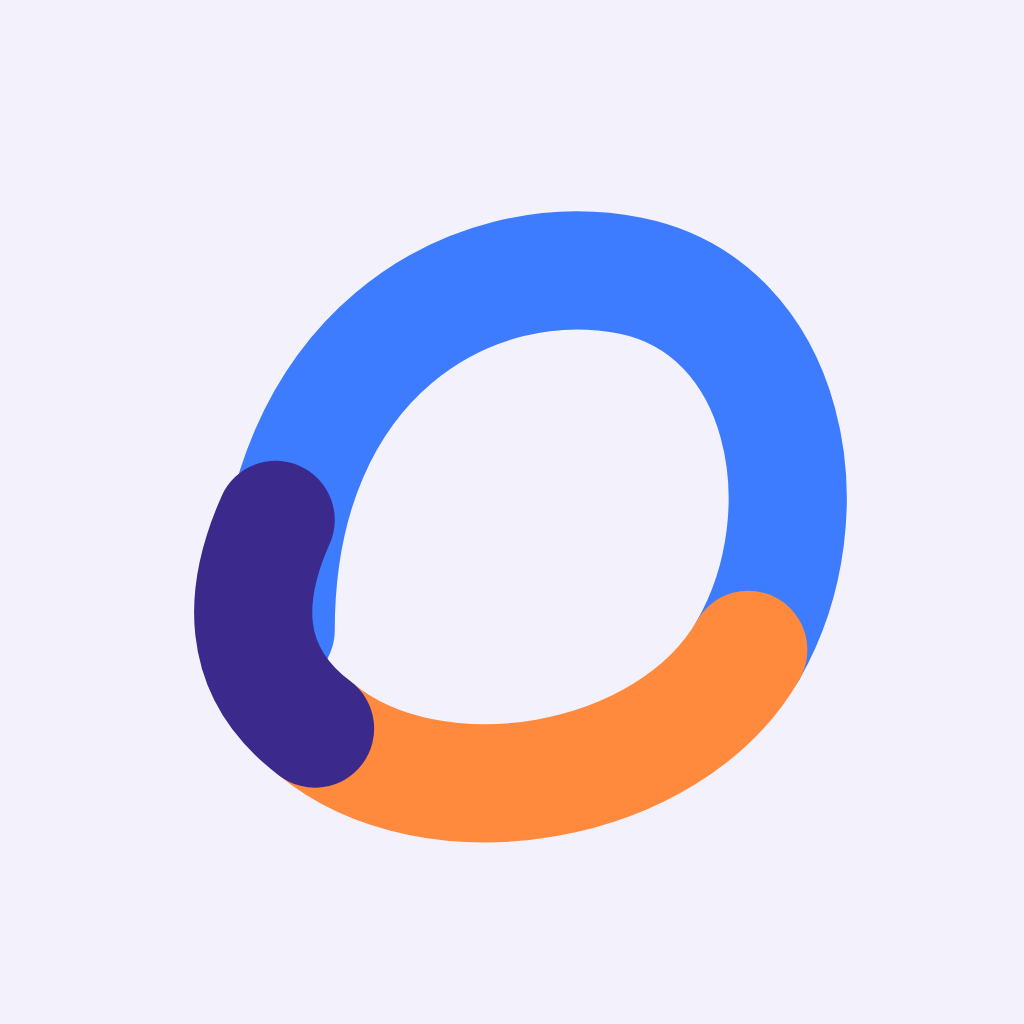
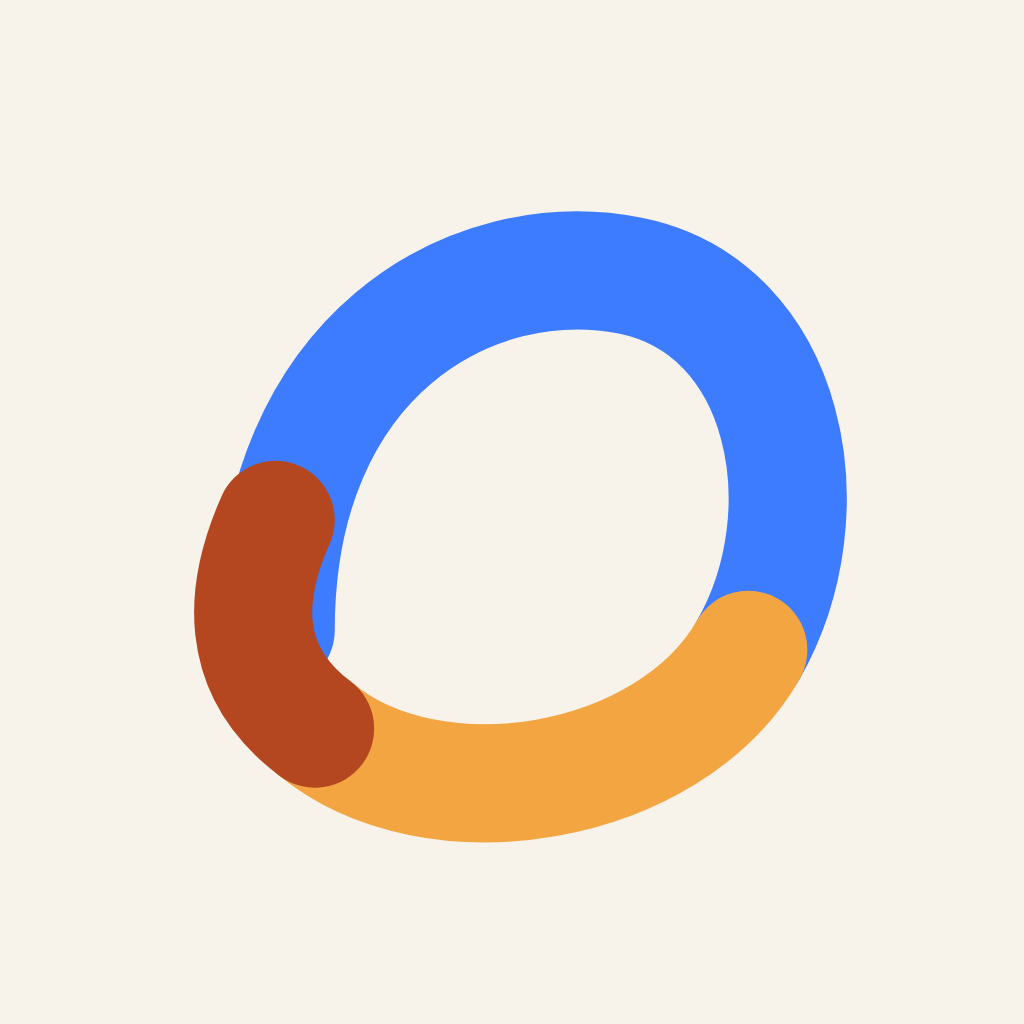
Kolory „Wstążek”: piasek + terakota zamiast fioletu (D74), także ikona
Claude-Session: https://claude.ai/code/session_01AfkbASz5VByGQrmgCYMLhg

Changed region(s): [[0.1875, 0.4375, 0.8125, 0.8438]]

diff --git a/src/config/theme.ts b/src/config/theme.ts
@@ -1,5 +1,5 @@
 /**
- * Motyw „Wstążki” (D72, decyzja właściciela z 7.10.2026; następca „Linii” z D50): każda grupa to kolorowa wstążka, a widok
+ * Motyw „Wstążki” w kolorach „piasek + terakota” (D72, D74 — decyzje właściciela z 7.10.2026; następca „Linii” z D50): każda grupa to kolorowa wstążka, a widok
  * „Dotyczy mnie” to stacja przesiadkowa. Jedyne źródło kolorów, krojów i rozmiarów ekranów.
  *
  * Progi czytelności (test src/config/__tests__/theme.test.ts liczy kontrast każdej pary poniżej):
@@ -28,7 +28,7 @@ export type Palette = {
   border: string;
   /** Obwódka pól do odhaczania: element sterujący, więc ≥ 3:1. */
   control: string;
-  /** Wyróżnienie aktywnej zakładki i przycisków-pigułek (motyw „Wstążki”, D72). */
+  /** Wyróżnienie aktywnej zakładki i przycisków-pigułek (motyw „Wstążki”, D72; kolor terakota, D74). */
   accentBg: string;
   accentInk: string;
   ok: string;
@@ -43,42 +43,42 @@ export type Palette = {
 
 export const palettes: Record<Scheme, Palette> = {
   light: {
-    ground: '#F3F1FB',
+    ground: '#F7F2EA',
     surface: '#FFFFFF',
-    ink: '#1D1638',
-    inkMuted: '#4E4673',
-    inkTab: '#6B6391',
-    border: '#E3DEF5',
-    control: '#7A6FA8',
-    accentBg: '#ECE8FF',
-    accentInk: '#3B2A8C',
+    ink: '#221A12',
+    inkMuted: '#5E5244',
+    inkTab: '#6E6152',
+    border: '#E8DFD2',
+    control: '#8A7A66',
+    accentBg: '#F6E3D8',
+    accentInk: '#8F3412',
     ok: '#15803D',
     warnBg: '#FEF3C7',
     warnBorder: '#F59E0B',
     warnInk: '#78350F',
     pendingInk: '#92400E',
     danger: '#B91C1C',
-    inverseBg: '#3B2A8C',
+    inverseBg: '#B4471F',
     inverseInk: '#FFFFFF',
   },
   dark: {
-    ground: '#141026',
-    surface: '#211B3B',
-    ink: '#F3F1FB',
-    inkMuted: '#B8B0DB',
-    inkTab: '#A39BC9',
-    border: '#342C57',
-    control: '#9D94CC',
-    accentBg: '#352B66',
-    accentInk: '#E2DCFF',
+    ground: '#17140F',
+    surface: '#221E18',
+    ink: '#F5EFE6',
+    inkMuted: '#C2B6A6',
+    inkTab: '#AEA290',
+    border: '#3A332A',
+    control: '#A39684',
+    accentBg: '#4A2A1C',
+    accentInk: '#F6C9B3',
     ok: '#22C55E',
     warnBg: '#3A2A0A',
     warnBorder: '#F59E0B',
     warnInk: '#FCD34D',
     pendingInk: '#FBBF24',
     danger: '#FCA5A5',
-    inverseBg: '#C9BFFF',
-    inverseInk: '#1D1638',
+    inverseBg: '#E07A4F',
+    inverseInk: '#17140F',
   },
 };
 

diff --git a/docs/adr/0014-zakupy-i-wstazki.md b/docs/adr/0014-zakupy-i-wstazki.md
@@ -31,3 +31,8 @@ Zgłoszenie właściciela:
 5. **Przekazanie (D70) obejmuje zakupy** (`handoffs.entity = 'lists'`).
 6. **Kontrast w motywie „Wstążki”:** kolory grup zostają z „Linii”, bo jaśniejsze z makiety (np. #FF8A3D) nie dają 3:1 z tłem. Zielona linia jest ciemniejsza: #15803D, nazwa #166534.
 7. **Zakupów nie ma w zakładce Kalendarz.** Są tylko w „Dotyczy mnie” i na liście. Do decyzji właściciela, jeśli potrzebne.
+
+## Zmiana koloru (właściciel, 7.10.2026)
+| ID | Pytanie | Decyzja | Odrzucone |
+|---|---|---|---|
+| D74 | Fiolet w „Wstążkach” nie pasuje — na co zmienić | Ciepły piasek + terakota (jasny: tło #F7F2EA, akcent #B4471F; ciemny: tło #17140F, akcent #E07A4F). Kształty „Wstążek” zostają. | Grafit bez akcentu; granat + niebieski; zieleń butelkowa |
